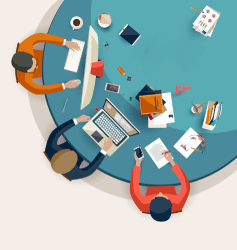
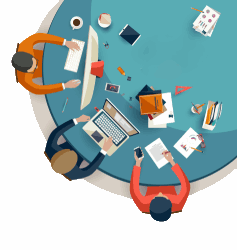
Add Recruitment Section
Updated pics, etc.

diff --git a/index.html b/index.html
@@ -36,6 +36,7 @@
                 <img src="img/agrobotofficialcircle.png" width="58" height="58" alt="" >
                 <a class="navbar-item" float-left >UBC AgroBot</a>
                 <div class="navbar-link">
+                <a href="#recruitment" class="navbar-item"> Recruitment</a>
                 <a href="#pricing" class="navbar-item"> Sponsor</a>
                 <a href="#blog" class="navbar-item"> Blog</a>
                 <a href="#contact" class="navbar-item"> Contact</a>
@@ -142,7 +143,7 @@
           <p class ="section-subtitle wow fadeIn" data-wow-duration="200ms" data-wow-delay= "0.2s">Upon identification of the wheat plant, the machine should determine if the plant is healthy or in distress which requires fertilizer to be applied by the machine.
             Upon identification of a weed, the machine should eradicate the weed chemically and/or mechanically. The competition will be judged by reputable members of the agricultural technology industry, such as The Climate Corporation (Monsanto), and Blue River Technology.</p>
         </div>
-        <div class="text-center  mb-5">
+        <div class="text-center mb-5 wow fadeIn" data-wow-duration="200ms" data-wow-delay= "0.2s">
           <a href="https://ag.purdue.edu/aggrowbot/"  target="_blank">
           <img style="max-width:50%;"src="img/Header_Logo.svg" alt="Competition Logo" />
          </a>
@@ -194,8 +195,8 @@
           </div>
           <div class="col-lg-4 col-md-4 col-sm-4 col-xs-12">
             <div class="show-box wow fadeInDown animated" data-wow-offset="10">
-              <img src="img/creative-team-vector.png" alt="">
-              <h4>Our Subteams</h4>
+              <img src="img/creative-team-vector-edit.png">
+              <h4>The Subteams</h4>
             </div>
           </div>
           <div class="col-lg-4 col-md-4 col-sm-4 col-xs-12">
@@ -225,6 +226,32 @@
     </section>
     <!-- Features Section End -->
 
+<!-- Recruitment Section -->
+<section id="recruitment" class="section">
+  <!-- Container Starts -->
+  <div class="container">
+    <div class="section-header">
+      <h2 class="section-title wow fadeIn" data-wow-duration="1000ms" data-wow-delay="0.3s"> Join <span> Us </span></h2>
+      <hr class="lines wow zoomIn" data-wow-delay="0.3s">
+      <h5 class="section-subsubtitle wow fadeIn" data-wow-duration="1000ms" data-wow-delay="0.3s">AgroBot Recruitment for 2020/2021</h5>
+
+      <p class="section-subtitle wow fadeInDown" data-wow-duration="1000ms" data-wow-delay="0.3s">We are looking for highly motivated students with a passion for innovation and solving problems. This year, we will be picking up where we left off and continue working on our first weed exterminating robot. There is still a lot of design, prototyping, integration and testing to be done. Members will have the opportunity to go through the engineering design process and develop their own solutions to this unique challenge. </p>
+      <p class="section-subtitle wow fadeInDown" data-wow-duration="1000ms" data-wow-delay="0.3s">We will also be expanding UBC AgroBot with a new Hydroponics project. The Hydroponics project team will aim to develop autonomous hydroponic systems with the potential to be implemented throughout campus. More information coming soon.</p>
+      <p class="section-subtitle wow fadeInDown" data-wow-duration="1000ms" data-wow-delay="0.3s"> We recruit first years to graduate students from all disciplines. You can also learn more about us on Imagine Day or feel free to reach out through email. Applications are now open. </p>
+      <p class="section-subtitle wow fadeInDown" data-wow-duration="1000ms" data-wow-delay="0.3s"> <i>*This year, we will be prioritizing remote working.</i></p>
+
+      <div class="wow fadeInDown" data-wow-delay="0.5s" >
+        <a href="https://ubc.ca1.qualtrics.com/jfe/form/SV_bdssmMC0Ve8dZuB" target="_blank" class="btn btn-common">Apply Here</a>
+      </div>
+      <div class="wow fadeIn" data-wow-duration="1000ms" data-wow-delay="0.3s">
+        <img  src="img/recruitment_collage.jpg" alt="Team Snapshot" />
+      </div>
+    </div>
+
+  </div>
+</section>
+<!-- blog Section End -->
+
     <!-- Lightbox 2 Section -->
     <section class="video-promo-2 section" data-stellar-background-ratio="0.5">
     <div class="overlay-lightbox-2"></div>
@@ -249,6 +276,25 @@
         <div class="blog-item-wrapper wow fadeInUp" data-wow-delay="0.3s">
           <div class="blog-item-text">
             <h3>
+            <a href="blog/May12th.html">AgroBot Recruitment 2020/21</a>
+            </h3>
+            <div class="meta-tags">
+              <span class="date"><i class="lnr lnr-calendar-full"></i>Aug 30th, 2020</span>
+            </div>
+            <p>
+              We are looking for highly motivated students with a passion for innovation and solving problems.
+              This year, we will be...
+            </p>
+            <a href="blog/Aug30th.html" class="btn btn-common btn-rm">Read More</a>
+          </div>
+        </div>
+        <!-- Blog Item Wrapper Ends-->
+      </div>
+      <div class="col-lg-4 col-md-4 col-sm-6 col-xs-12 blog-item">
+        <!-- Blog Item Starts -->
+        <div class="blog-item-wrapper wow fadeInUp" data-wow-delay="0.3s">
+          <div class="blog-item-text">
+            <h3>
             <a href="blog/May12th.html">End of Year Announcement</a>
             </h3>
             <div class="meta-tags">
@@ -262,8 +308,6 @@
           </div>
         </div>
         <!-- Blog Item Wrapper Ends-->
-      </div>
-
       </div>
     </div>
   </div>
@@ -652,7 +696,7 @@
               <div class="section-header">
                 <h2 class="section-title wow fadeIn" data-wow-duration="1000ms" data-wow-delay="0.3s">Contact <span>Us</span></h2>
                 <hr class="lines wow zoomIn" data-wow-delay="0.3s">
-                <p class="section-subtitle wow fadeIn" data-wow-duration="1000ms" data-wow-delay="0.3s">Do you have any specific interests or inquiries? Send us a email directly to talk with us!</p>
+                <p class="section-subtitle wow fadeIn" data-wow-duration="1000ms" data-wow-delay="0.3s">Do you have any specific interests or inquiries? Send us a email at <br> <b> ubcagrobot@gmail.com </b></p>
               </div>
               <div>
               <a href="mailto:ubcagrobot@gmail.com" class="btn btn-common" >Email Us</a>
@@ -663,7 +707,7 @@
     </section>
     <!-- Contact Section End -->
 
-    <!-- Subcribe Section Start -->
+    <!-- Subcribe Section Start
     <div id="subscribe" class="section">
       <div class="container">
         <div class="section-header">
@@ -681,7 +725,7 @@
         </div>
       </div>
     </div>
-    <!-- Subcribe Section End -->
+     Subcribe Section End -->
 
     <!-- Footer Section Start -->
     <footer>

diff --git a/blog/Aug30th.html b/blog/Aug30th.html
@@ -1,0 +1,143 @@
+<!DOCTYPE html>
+<html lang="en">
+  <head>
+    <base href="/apricot2012.github.io">
+
+    <!-- Required meta tags -->
+    <meta charset="utf-8">
+    <meta name="viewport" content="width=device-width, initial-scale=1, shrink-to-fit=no">
+    <meta name="keywords" content="Bootstrap, Landing page, Template, Registration, Landing">
+    <meta name="viewport" content="width=device-width, initial-scale=1, maximum-scale=1">
+    <meta name="author" content="Grayrids">
+    <title>UBC AgroBot</title>
+
+    <!-- Bootstrap CSS -->
+    <link rel="stylesheet" href="/css/bootstrap.min.css">
+    <link rel="stylesheet" href="/css/font-awesome.min.css">
+    <link rel="stylesheet" href="/css/line-icons.css">
+    <link rel="stylesheet" href="/css/owl.carousel.css">
+    <link rel="stylesheet" href="/css/owl.theme.css">
+    <link rel="stylesheet" href="/css/nivo-lightbox.css">
+    <link rel="stylesheet" href="/css/magnific-popup.css">
+    <link rel="stylesheet" href="/css/animate.css">
+    <link rel="stylesheet" href="/css/menu_sideslide.css">
+    <link rel="stylesheet" href="/css/main.css">
+    <link rel="stylesheet" href="/css/responsive.css">
+
+    <link rel="shortcut icon" type="img/x-icon" href="/img/agrobotofficialcircle.ico"
+  </head>
+
+  <body>
+  	<!-- Header Section Start -->
+
+    <header id="hero-area">
+      <div class="fixed-top">
+          <div class="container">
+            <div class="logo-menu">
+              <a href="index.html" class="logo">
+                <img src="/img/agrobotofficialcircle.png" width="58" height="58" alt="" >
+                <a class="navbar-item" float-left >UBC AgroBot</a>
+                <div class="navbar-link">
+                <a href="index.html" class="navbar-item"> Back </a>
+              </div>
+            </div>
+          </div>
+      </div>
+      <div class="overlay overlay-2"></div>
+      <div class="container">
+        <div class="row justify-content-md-center">
+          <div class="col-md-10">
+            <div class="contents text-center">
+              <h1 class="wow fadeInDown" data-wow-duration="1000ms" data-wow-delay="0.3s">AgroBot Recruitment for 2020/2021</h1>
+                <div class="date">
+                  <p class="wow fadeIn" data-wow-duration="1000ms" data-wow-delay="400ms">
+                    Aug 30th, 2020</p>
+              </div>
+            </div>
+          </div>
+        </div>
+      </div>
+    </header>
+    <!-- Header Section End -->
+
+    <!-- Content Section Start -->
+    <section id="blogpage" class="section">
+      <div class="container contents">
+          <p> We are looking for highly motivated students with a passion for innovation and solving problems. This year, we will be picking up where we left off and continue working on our first weed exterminating robot. There is still a lot of design, prototyping, integration and testing to be done. Members will have the opportunity to go through the engineering design process and develop their own solutions to this unique challenge. </p>
+          <p> We will also be expanding UBC AgroBot with a new Hydroponics project. The Hydroponics project team will aim to develop autonomous hydroponic systems with the potential to be implemented throughout campus. More information coming soon.  </p>
+          <p> We recruit first years to graduate students from all disciplines. You can also learn more about us on Imagine Day or feel free to reach out through email. Applications are now open.</p>
+          <p> *This year, we will be prioritizing remote working.   </p>
+
+          <p> Apply Here: <a href="https://ubc.ca1.qualtrics.com/jfe/form/SV_bdssmMC0Ve8dZuB ">https://ubc.ca1.qualtrics.com/jfe/form/SV_bdssmMC0Ve8dZuB </a></p>
+
+          <img src="/img/recruitment_collage.jpg" alt="" >
+
+
+      </div>
+    </section>
+    <!-- Content Section End -->
+
+    <!-- Footer Section Start -->
+    <footer>
+      <div id="footer" class="container">
+        <div class="row">
+          <div class="col-md-12">
+            <div class="social-icons wow fadeInDown" data-wow-duration="1000ms" data-wow-delay="0.3s">
+              <ul>
+                <li class="facebook"><a href="https://www.facebook.com/UBCAgroBot/"><i class="fa fa-facebook"></i></a></li>
+                <li class="instagram"><a href="https://www.instagram.com/agrogramubc/"><i class="fa fa-instagram"></i></a></li>
+                <li class="linkedin"><a href="https://www.linkedin.com/company/ubc-agrobot"><i class="fa fa-linkedin"></i></a></li>
+              </ul>
+            </div>
+            <div class="site-info wow fadeInUp" data-wow-duration="1000ms" data-wow-delay="0.3s">
+              <p>All copyrights reserved &copy; 2017 - Designed & Developed by <a rel="nofollow" href="https://uideck.com">UIdeck</a></p>
+            </div>
+          </div>
+        </div>
+      </div>
+    </footer>
+    <!-- Footer Section End -->
+
+    <!-- Go To Top Link -->
+    <a href="#" class="back-to-top">
+      <i class="lnr lnr-arrow-up"></i>
+    </a>
+
+    <div id="loader">
+      <div class="spinner">
+        <div class="double-bounce1"></div>
+        <div class="double-bounce2"></div>
+      </div>
+    </div>
+
+    <!-- jQuery first, then Tether, then Bootstrap JS. -->
+    <script src="/js/jquery-min.js"></script>
+    <script src="/js/tether.min.js"></script>
+    <script src="/js/bootstrap.min.js"></script>
+    <script src="/js/classie.js"></script>
+    <script src="/js/mixitup.min.js"></script>
+    <script src="/js/nivo-lightbox.js"></script>
+    <script src="/js/owl.carousel.min.js"></script>
+    <script src="/js/jquery.stellar.min.js"></script>
+    <script src="/js/jquery.nav.js"></script>
+    <script src="/js/smooth-scroll.js"></script>
+    <script src="/js/smooth-on-scroll.js"></script>
+    <script src="/js/wow.js"></script>
+    <script src="/js/menu.js"></script>
+    <script src="/js/jquery.vide.js"></script>
+    <script src="/js/jquery.counterup.min.js"></script>
+    <script src="/js/jquery.magnific-popup.min.js"></script>
+    <script src="/js/waypoints.min.js"></script>
+    <script src="/js/form-validator.min.js"></script>
+    <script src="/js/contact-form-script.js"></script>
+    <script src="/js/main.js"></script>
+
+    <script>
+
+    $('.carousel').carousel({
+      interval: 4000,
+      pause: 'hover'
+    });
+    </script>
+  </body>
+</html>

diff --git a/css/main.css b/css/main.css
@@ -503,10 +503,7 @@ a.navbar-item:hover{
   color: #ffffff;
 }
 #features .show-box {
-  padding: 20px 70px 40px;
-}
-#features .show-box image{
-  padding-bottom: 20px;
+  padding: 30px 70px 40px;
 }
 #features .show-box img {
   width: 100%;
@@ -1018,6 +1015,22 @@ a.navbar-item:hover{
 .btn i {
   margin-right: 5px;
 }
+
+
+/* ==========================================================================
+    Recruitment
+   ========================================================================== */
+
+#recruitment {
+  background: #f2f2f2;
+}
+
+#recruitment img {
+  margin-top: 100px;
+  width: 70%;
+  height: auto;
+}
+
 /* ==========================================================================
    Blog
    ========================================================================== */
@@ -1101,7 +1114,7 @@ a.navbar-item:hover{
 }
 
 /* ==========================================================================
-   Blog Page
+   Blog Page style
    ========================================================================== */
 #blogpage {
   background: #f2f2f2;
